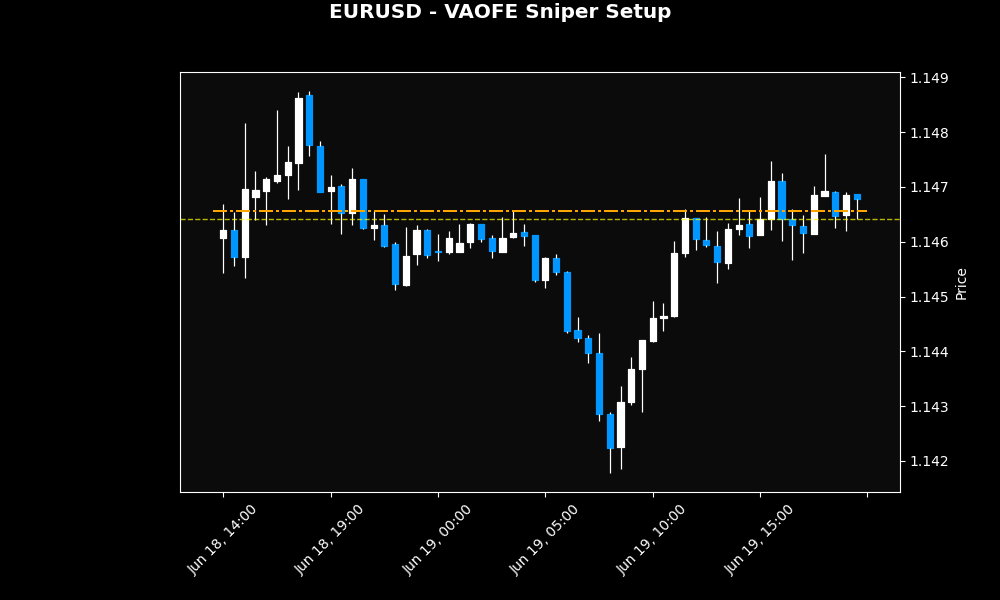
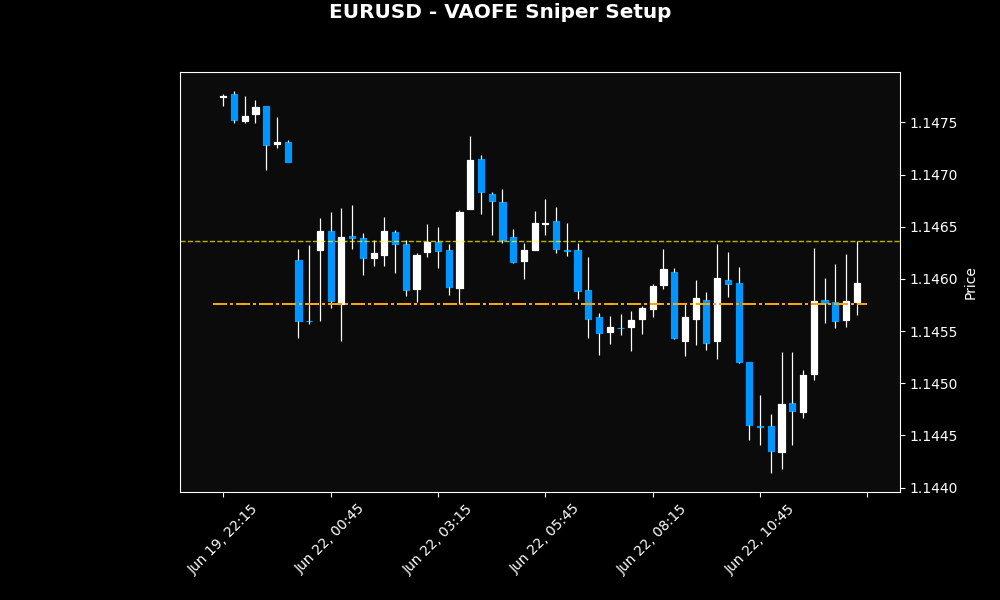
Laitettu B&R/kimmokeihin muutoksia

diff --git a/bos_sniffer3.py b/bos_sniffer3.py
@@ -41,11 +41,16 @@ TIMEFRAMES = {
 }
 
 SWING_STRENGTH = 10
-RETEST_APPROACH_PIPS = 8.0
-BOUNCE_CONFIRM_PIPS = 3.5
-FAKE_OUT_PIPS = 8.0
 MAX_WAIT_CANDLES = 24
 SCAN_INTERVAL_SEC = 3
+
+# UUDET DYNAAMISET ASETUKSET (Elonin Askel 1: Make less dumb)
+MIN_BOUNCE_PIPS = 3.0       # Lattia (Kohinan suodatus)
+MAX_BOUNCE_PIPS = 22.0      # Katto (Uutiskaaoksen suodatus)
+ATR_MULTIPLIER = 0.50       # Kimmokkeen tulee olla 50% ATR:stä
+FAKEOUT_MULTIPLIER = 1.2    # Sallii 120% ATR:n kokoisen liquidity sweepin läpi tason
+# POISTETTU: Kaikki "Approach" (Kosketusvyöhyke) rajat, koska hinta ei tottele niitä. 
+# Nyt vaaditaan vain > 0 vetäytyminen ja kimmoke.
 
 # ==========================================
 # 2. LOGGING & TELEGRAM KUVANLÄHETYS
@@ -58,29 +63,15 @@ radar_states: Dict[str, Dict[str, Any]] = {}
 
 def send_telegram_alert(message: str, reply_to_msg_id: int = None, photo_path: str = None, symbol: str = None) -> int:
     """
-    Lähettää joko pelkän tekstin (Vaihe 1) TAI kuvan + painikkeet (Vaihe 2).
+    Lähettää joko pelkän tekstin (Vaihe 1) TAI kuvan (Vaihe 2).
     """
-    # Jos on kuva, käytetään sendPhoto-endpointia
     if photo_path and os.path.exists(photo_path):
         url = f"https://api.telegram.org/bot{TELEGRAM_BOT_TOKEN}/sendPhoto"
-        
-        # Luodaan Action-painikkeet
-        keyboard = {
-            "inline_keyboard": [
-                [
-                    {"text": f"🟢 Avaa MT5 ({symbol})", "url": f"tg://resolve?domain=mt5"} 
-                ],
-                [
-                    {"text": "📊 Avaa VAOFE Dashboard", "url": "http://localhost:8501"}
-                ]
-            ]
-        }
         
         data = {
             "chat_id": TELEGRAM_CHAT_ID,
             "caption": message,
-            "parse_mode": "HTML",
-            "reply_markup": json.dumps(keyboard)
+            "parse_mode": "HTML"
         }
         
         if reply_to_msg_id:
@@ -93,10 +84,11 @@ def send_telegram_alert(message: str, reply_to_msg_id: int = None, photo_path: s
                 res_data = response.json()
                 if res_data.get("ok"):
                     return res_data["result"]["message_id"]
+                else:
+                    logger.error(f"Telegram API hylkäsi kuvan: {res_data}")
             except Exception as e:
                 logger.error(f"Telegram kuvanlähetysvirhe: {e}")
                 
-    # Jos EI ole kuvaa (Vaihe 1), käytetään tavallista sendMessage-endpointia
     else:
         url = f"https://api.telegram.org/bot{TELEGRAM_BOT_TOKEN}/sendMessage"
         payload = {"chat_id": TELEGRAM_CHAT_ID, "text": message, "parse_mode": "HTML"}
@@ -164,7 +156,7 @@ def run_sniffer3() -> None:
         return
         
     logger.info("🦅 SNIFFER 3: VISUAL SNIPER KÄYNNISTETTY 🦅")
-    send_telegram_alert("🦅 <b>Sniffer 3: VISUAL SNIPER KÄYNNISTETTY</b> 🦅\nUI-Päivitys: Graafit, Tracker ja Reply-ketjutus aktivoitu!")
+    send_telegram_alert("🦅 <b>Sniffer 3: VISUAL SNIPER KÄYNNISTETTY</b> 🦅\nUI-Päivitys: Täydellinen Momentum-kimmoke (Ei Approach-rajoja) aktivoitu!")
     
     try:
         while True:
@@ -172,23 +164,10 @@ def run_sniffer3() -> None:
                 if mt5.symbol_info(symbol) is None: continue
                 pip_factor = get_pip_size(symbol)
                 
-                if "XAU" in symbol or "GOLD" in symbol:
-                    zone_appr = 20.0 * pip_factor  
-                    bounce_req = 5.0 * pip_factor  
-                    zone_fake = 15.0 * pip_factor  
-                elif "BTC" in symbol:
-                    zone_appr = 150.0 * pip_factor
-                    bounce_req = 50.0 * pip_factor
-                    zone_fake = 100.0 * pip_factor
-                else:
-                    zone_appr = RETEST_APPROACH_PIPS * pip_factor
-                    bounce_req = BOUNCE_CONFIRM_PIPS * pip_factor
-                    zone_fake = FAKE_OUT_PIPS * pip_factor
-                
                 for tf_name, tf_value in TIMEFRAMES.items():
                     state_key = f"{symbol}_{tf_name}"
                     if state_key not in radar_states:
-                        radar_states[state_key] = {'state': 'IDLE', 'level': 0.0, 'dir': '', 'bos_time': 0, 'pivot': 0.0, 'msg_id': 0, 'setup_id': ''}
+                        radar_states[state_key] = {'state': 'IDLE', 'level': 0.0, 'dir': '', 'bos_time': 0, 'breakout_peak': 0.0, 'pullback_extreme': 0.0, 'msg_id': 0, 'setup_id': ''}
                         
                     rates = mt5.copy_rates_from_pos(symbol, tf_value, 0, 150)
                     if rates is None or len(rates) < 100: continue
@@ -198,6 +177,31 @@ def run_sniffer3() -> None:
                     closes = jnp.array([r['close'] for r in rates])
                     times = [int(r['time']) for r in rates]
                     
+                    # ----------------------------------------------------
+                    # DYNAAMISET FYSIKAN RAJAT (ATR)
+                    # ----------------------------------------------------
+                    recent_ranges = highs[-14:] - lows[-14:]
+                    current_atr = float(jnp.mean(recent_ranges))
+                    
+                    raw_bounce_req = current_atr * ATR_MULTIPLIER
+                    raw_fake_out = current_atr * FAKEOUT_MULTIPLIER
+                    
+                    if "XAU" in symbol or "GOLD" in symbol:
+                        min_req = 5.0 * pip_factor
+                        max_req = 20.0 * pip_factor
+                        zone_fake = max(15.0 * pip_factor, raw_fake_out)
+                    elif "BTC" in symbol:
+                        min_req = 50.0 * pip_factor
+                        max_req = 200.0 * pip_factor
+                        zone_fake = max(150.0 * pip_factor, raw_fake_out)
+                    else:
+                        min_req = MIN_BOUNCE_PIPS * pip_factor
+                        max_req = MAX_BOUNCE_PIPS * pip_factor
+                        zone_fake = max(8.0 * pip_factor, raw_fake_out) 
+                        
+                    bounce_req = max(min_req, min(raw_bounce_req, max_req))
+                    # ----------------------------------------------------
+
                     live_price = float(rates[-1]['close']) 
                     current_state = radar_states[state_key]['state']
                     
@@ -206,25 +210,43 @@ def run_sniffer3() -> None:
                         
                         if bull_bos and bos_time > radar_states[state_key]['bos_time']:
                             setup_id = f"#{symbol}_{tf_name}_{datetime.fromtimestamp(bos_time).strftime('%H%M')}"
+                            
+                            chart_path = f"bos_{symbol}.png"
+                            try:
+                                generate_setup_chart(symbol, rates[-60:], res_level, live_price, "BULL", chart_path)
+                            except Exception as e:
+                                logger.error(f"Vaihe 1 graafin piirto epäonnistui: {e}")
+                                chart_path = None
+
                             msg = (f"🔍 <b>Sniffer3: VAIHE 1 (BOS)</b>\n"
                                    f"Tunniste: {setup_id}\n\n"
                                    f"<b>{symbol} {tf_name}</b> | 🟢 BULLISH\n"
                                    f"<b>Taso:</b> <code>{res_level:.5f}</code>\n"
                                    f"<i>Odotetaan vetäytymistä...</i>")
-                            msg_id = send_telegram_alert(msg)
-                            radar_states[state_key] = {'state': 'BOS_PENDING', 'level': res_level, 'dir': 'BULL', 'bos_time': bos_time, 'pivot': 0.0, 'msg_id': msg_id, 'setup_id': setup_id}
+                            
+                            msg_id = send_telegram_alert(msg, photo_path=chart_path, symbol=symbol)
+                            radar_states[state_key] = {'state': 'BOS_PENDING', 'level': res_level, 'dir': 'BULL', 'bos_time': bos_time, 'breakout_peak': live_price, 'pullback_extreme': live_price, 'msg_id': msg_id, 'setup_id': setup_id}
                             
                         elif bear_bos and bos_time > radar_states[state_key]['bos_time']:
                             setup_id = f"#{symbol}_{tf_name}_{datetime.fromtimestamp(bos_time).strftime('%H%M')}"
+                            
+                            chart_path = f"bos_{symbol}.png"
+                            try:
+                                generate_setup_chart(symbol, rates[-60:], sup_level, live_price, "BEAR", chart_path)
+                            except Exception as e:
+                                logger.error(f"Vaihe 1 graafin piirto epäonnistui: {e}")
+                                chart_path = None
+
                             msg = (f"🔍 <b>Sniffer3: VAIHE 1 (BOS)</b>\n"
                                    f"Tunniste: {setup_id}\n\n"
                                    f"<b>{symbol} {tf_name}</b> | 🔴 BEARISH\n"
                                    f"<b>Taso:</b> <code>{sup_level:.5f}</code>\n"
                                    f"<i>Odotetaan vetäytymistä...</i>")
-                            msg_id = send_telegram_alert(msg)
-                            radar_states[state_key] = {'state': 'BOS_PENDING', 'level': sup_level, 'dir': 'BEAR', 'bos_time': bos_time, 'pivot': 0.0, 'msg_id': msg_id, 'setup_id': setup_id}
+                            
+                            msg_id = send_telegram_alert(msg, photo_path=chart_path, symbol=symbol)
+                            radar_states[state_key] = {'state': 'BOS_PENDING', 'level': sup_level, 'dir': 'BEAR', 'bos_time': bos_time, 'breakout_peak': live_price, 'pullback_extreme': live_price, 'msg_id': msg_id, 'setup_id': setup_id}
 
-                    elif current_state in ['BOS_PENDING', 'RETEST_TOUCHED']:
+                    elif current_state == 'BOS_PENDING':
                         target_level = radar_states[state_key]['level']
                         direction = radar_states[state_key]['dir']
                         bos_time = radar_states[state_key]['bos_time']
@@ -233,73 +255,80 @@ def run_sniffer3() -> None:
                         
                         candles_passed = sum(1 for t in times if t >= bos_time) - 1
                         if candles_passed > MAX_WAIT_CANDLES:
-                            radar_states[state_key] = {'state': 'IDLE', 'level': 0.0, 'dir': '', 'bos_time': bos_time, 'pivot': 0.0, 'msg_id': 0, 'setup_id': ''}
+                            radar_states[state_key] = {'state': 'IDLE', 'level': 0.0, 'dir': '', 'bos_time': bos_time, 'breakout_peak': 0.0, 'pullback_extreme': 0.0, 'msg_id': 0, 'setup_id': ''}
                             continue
 
+                        min_pullback = 1.0 * pip_factor # Vähintään 1 pip vetäytyminen ("ei saa olla nolla")
+
                         if direction == 'BULL':
+                            if live_price > radar_states[state_key]['breakout_peak']:
+                                radar_states[state_key]['breakout_peak'] = live_price
+                                radar_states[state_key]['pullback_extreme'] = live_price
+                            elif live_price < radar_states[state_key]['pullback_extreme']:
+                                radar_states[state_key]['pullback_extreme'] = live_price
+
                             if live_price < target_level - zone_fake:
-                                radar_states[state_key] = {'state': 'IDLE', 'level': 0.0, 'dir': '', 'bos_time': bos_time, 'pivot': 0.0, 'msg_id': 0, 'setup_id': ''}
-                            elif current_state == 'BOS_PENDING' and live_price <= target_level + zone_appr:
-                                radar_states[state_key]['state'] = 'RETEST_TOUCHED'
-                                radar_states[state_key]['pivot'] = live_price
-                            elif current_state == 'RETEST_TOUCHED':
-                                if live_price < radar_states[state_key]['pivot']:
-                                    radar_states[state_key]['pivot'] = live_price
-                                if live_price >= radar_states[state_key]['pivot'] + bounce_req:
-                                    chart_path = f"setup_{symbol}.png"
-                                    try:
-                                        # Otetaan 60 viimeistä kynttilää graafiin
-                                        generate_setup_chart(symbol, rates[-60:], target_level, radar_states[state_key]['pivot'], direction, chart_path)
-                                    except Exception as e:
-                                        logger.error(f"Graafin piirto epäonnistui: {e}")
-                                        chart_path = None
-                                        
-                                    msg = (f"🔥 <b>Sniffer3: VAIHE 2 (RETEST VAHVISTETTU)</b> 🔥\n\n"
-                                           f"Tunniste: {setup_id}\n"
-                                           f"<b>{symbol} {tf_name}</b> | 📈 Pivot-käännös ylös!\n"
-                                           f"<b>Entry:</b> <code>{live_price:.5f}</code>\n"
-                                           f"<b>Tuki (SL):</b> <code>{target_level:.5f}</code>")
+                                radar_states[state_key] = {'state': 'IDLE', 'level': 0.0, 'dir': '', 'bos_time': bos_time, 'breakout_peak': 0.0, 'pullback_extreme': 0.0, 'msg_id': 0, 'setup_id': ''}
+                                continue
+
+                            pullback_depth = radar_states[state_key]['breakout_peak'] - radar_states[state_key]['pullback_extreme']
+                            
+                            if pullback_depth >= min_pullback and live_price >= radar_states[state_key]['pullback_extreme'] + bounce_req:
+                                chart_path = f"setup_{symbol}.png"
+                                try:
+                                    generate_setup_chart(symbol, rates[-60:], target_level, radar_states[state_key]['pullback_extreme'], direction, chart_path)
+                                except Exception as e:
+                                    logger.error(f"Graafin piirto epäonnistui: {e}")
+                                    chart_path = None
                                     
-                                    # LÄHETETÄÄN VIESTI JA TALLENNETAAN KANTAAN
-                                    send_telegram_alert(msg, reply_to_msg_id=orig_msg_id, photo_path=chart_path, symbol=symbol)
-                                    try:
-                                        log_trade_signal(symbol, tf_name, "BULL", live_price, target_level)
-                                    except Exception as e:
-                                        logger.error(f"Tietokantatallennus epäonnistui: {e}")
-                                        
-                                    radar_states[state_key] = {'state': 'IDLE', 'level': 0.0, 'dir': '', 'bos_time': bos_time, 'pivot': 0.0, 'msg_id': 0, 'setup_id': ''}
+                                msg = (f"🔥 <b>Sniffer3: VAIHE 2 (KIMMOKE VAHVISTETTU)</b> 🔥\n\n"
+                                       f"Tunniste: {setup_id}\n"
+                                       f"<b>{symbol} {tf_name}</b> | 📈 Momentum jatkuu!\n"
+                                       f"<b>Entry:</b> <code>{live_price:.5f}</code>\n"
+                                       f"<b>Tuki (SL):</b> <code>{target_level:.5f}</code>")
+                                
+                                send_telegram_alert(msg, reply_to_msg_id=orig_msg_id, photo_path=chart_path, symbol=symbol)
+                                try:
+                                    log_trade_signal(symbol, tf_name, "BULL", live_price, target_level)
+                                except Exception as e:
+                                    logger.error(f"Tietokantatallennus epäonnistui: {e}")
+                                    
+                                radar_states[state_key] = {'state': 'IDLE', 'level': 0.0, 'dir': '', 'bos_time': bos_time, 'breakout_peak': 0.0, 'pullback_extreme': 0.0, 'msg_id': 0, 'setup_id': ''}
 
                         elif direction == 'BEAR':
+                            if live_price < radar_states[state_key]['breakout_peak']:
+                                radar_states[state_key]['breakout_peak'] = live_price
+                                radar_states[state_key]['pullback_extreme'] = live_price
+                            elif live_price > radar_states[state_key]['pullback_extreme']:
+                                radar_states[state_key]['pullback_extreme'] = live_price
+
                             if live_price > target_level + zone_fake:
-                                radar_states[state_key] = {'state': 'IDLE', 'level': 0.0, 'dir': '', 'bos_time': bos_time, 'pivot': 0.0, 'msg_id': 0, 'setup_id': ''}
-                            elif current_state == 'BOS_PENDING' and live_price >= target_level - zone_appr:
-                                radar_states[state_key]['state'] = 'RETEST_TOUCHED'
-                                radar_states[state_key]['pivot'] = live_price
-                            elif current_state == 'RETEST_TOUCHED':
-                                if live_price > radar_states[state_key]['pivot']:
-                                    radar_states[state_key]['pivot'] = live_price
-                                if live_price <= radar_states[state_key]['pivot'] - bounce_req:
-                                    chart_path = f"setup_{symbol}.png"
-                                    try:
-                                        generate_setup_chart(symbol, rates[-60:], target_level, radar_states[state_key]['pivot'], direction, chart_path)
-                                    except Exception as e:
-                                        logger.error(f"Graafin piirto epäonnistui: {e}")
-                                        chart_path = None
-                                        
-                                    msg = (f"🔥 <b>Sniffer3: VAIHE 2 (RETEST VAHVISTETTU)</b> 🔥\n\n"
-                                           f"Tunniste: {setup_id}\n"
-                                           f"<b>{symbol} {tf_name}</b> | 📉 Pivot-käännös alas!\n"
-                                           f"<b>Entry:</b> <code>{live_price:.5f}</code>\n"
-                                           f"<b>Vastus (SL):</b> <code>{target_level:.5f}</code>")
-                                           
-                                    # LÄHETETÄÄN VIESTI JA TALLENNETAAN KANTAAN
-                                    send_telegram_alert(msg, reply_to_msg_id=orig_msg_id, photo_path=chart_path, symbol=symbol)
-                                    try:
-                                        log_trade_signal(symbol, tf_name, "BEAR", live_price, target_level)
-                                    except Exception as e:
-                                        logger.error(f"Tietokantatallennus epäonnistui: {e}")
-                                        
-                                    radar_states[state_key] = {'state': 'IDLE', 'level': 0.0, 'dir': '', 'bos_time': bos_time, 'pivot': 0.0, 'msg_id': 0, 'setup_id': ''}
+                                radar_states[state_key] = {'state': 'IDLE', 'level': 0.0, 'dir': '', 'bos_time': bos_time, 'breakout_peak': 0.0, 'pullback_extreme': 0.0, 'msg_id': 0, 'setup_id': ''}
+                                continue
+
+                            pullback_depth = radar_states[state_key]['pullback_extreme'] - radar_states[state_key]['breakout_peak']
+                            
+                            if pullback_depth >= min_pullback and live_price <= radar_states[state_key]['pullback_extreme'] - bounce_req:
+                                chart_path = f"setup_{symbol}.png"
+                                try:
+                                    generate_setup_chart(symbol, rates[-60:], target_level, radar_states[state_key]['pullback_extreme'], direction, chart_path)
+                                except Exception as e:
+                                    logger.error(f"Graafin piirto epäonnistui: {e}")
+                                    chart_path = None
+                                    
+                                msg = (f"🔥 <b>Sniffer3: VAIHE 2 (KIMMOKE VAHVISTETTU)</b> 🔥\n\n"
+                                       f"Tunniste: {setup_id}\n"
+                                       f"<b>{symbol} {tf_name}</b> | 📉 Momentum jatkuu!\n"
+                                       f"<b>Entry:</b> <code>{live_price:.5f}</code>\n"
+                                       f"<b>Vastus (SL):</b> <code>{target_level:.5f}</code>")
+                                       
+                                send_telegram_alert(msg, reply_to_msg_id=orig_msg_id, photo_path=chart_path, symbol=symbol)
+                                try:
+                                    log_trade_signal(symbol, tf_name, "BEAR", live_price, target_level)
+                                except Exception as e:
+                                    logger.error(f"Tietokantatallennus epäonnistui: {e}")
+                                    
+                                radar_states[state_key] = {'state': 'IDLE', 'level': 0.0, 'dir': '', 'bos_time': bos_time, 'breakout_peak': 0.0, 'pullback_extreme': 0.0, 'msg_id': 0, 'setup_id': ''}
 
             time.sleep(SCAN_INTERVAL_SEC)
             
